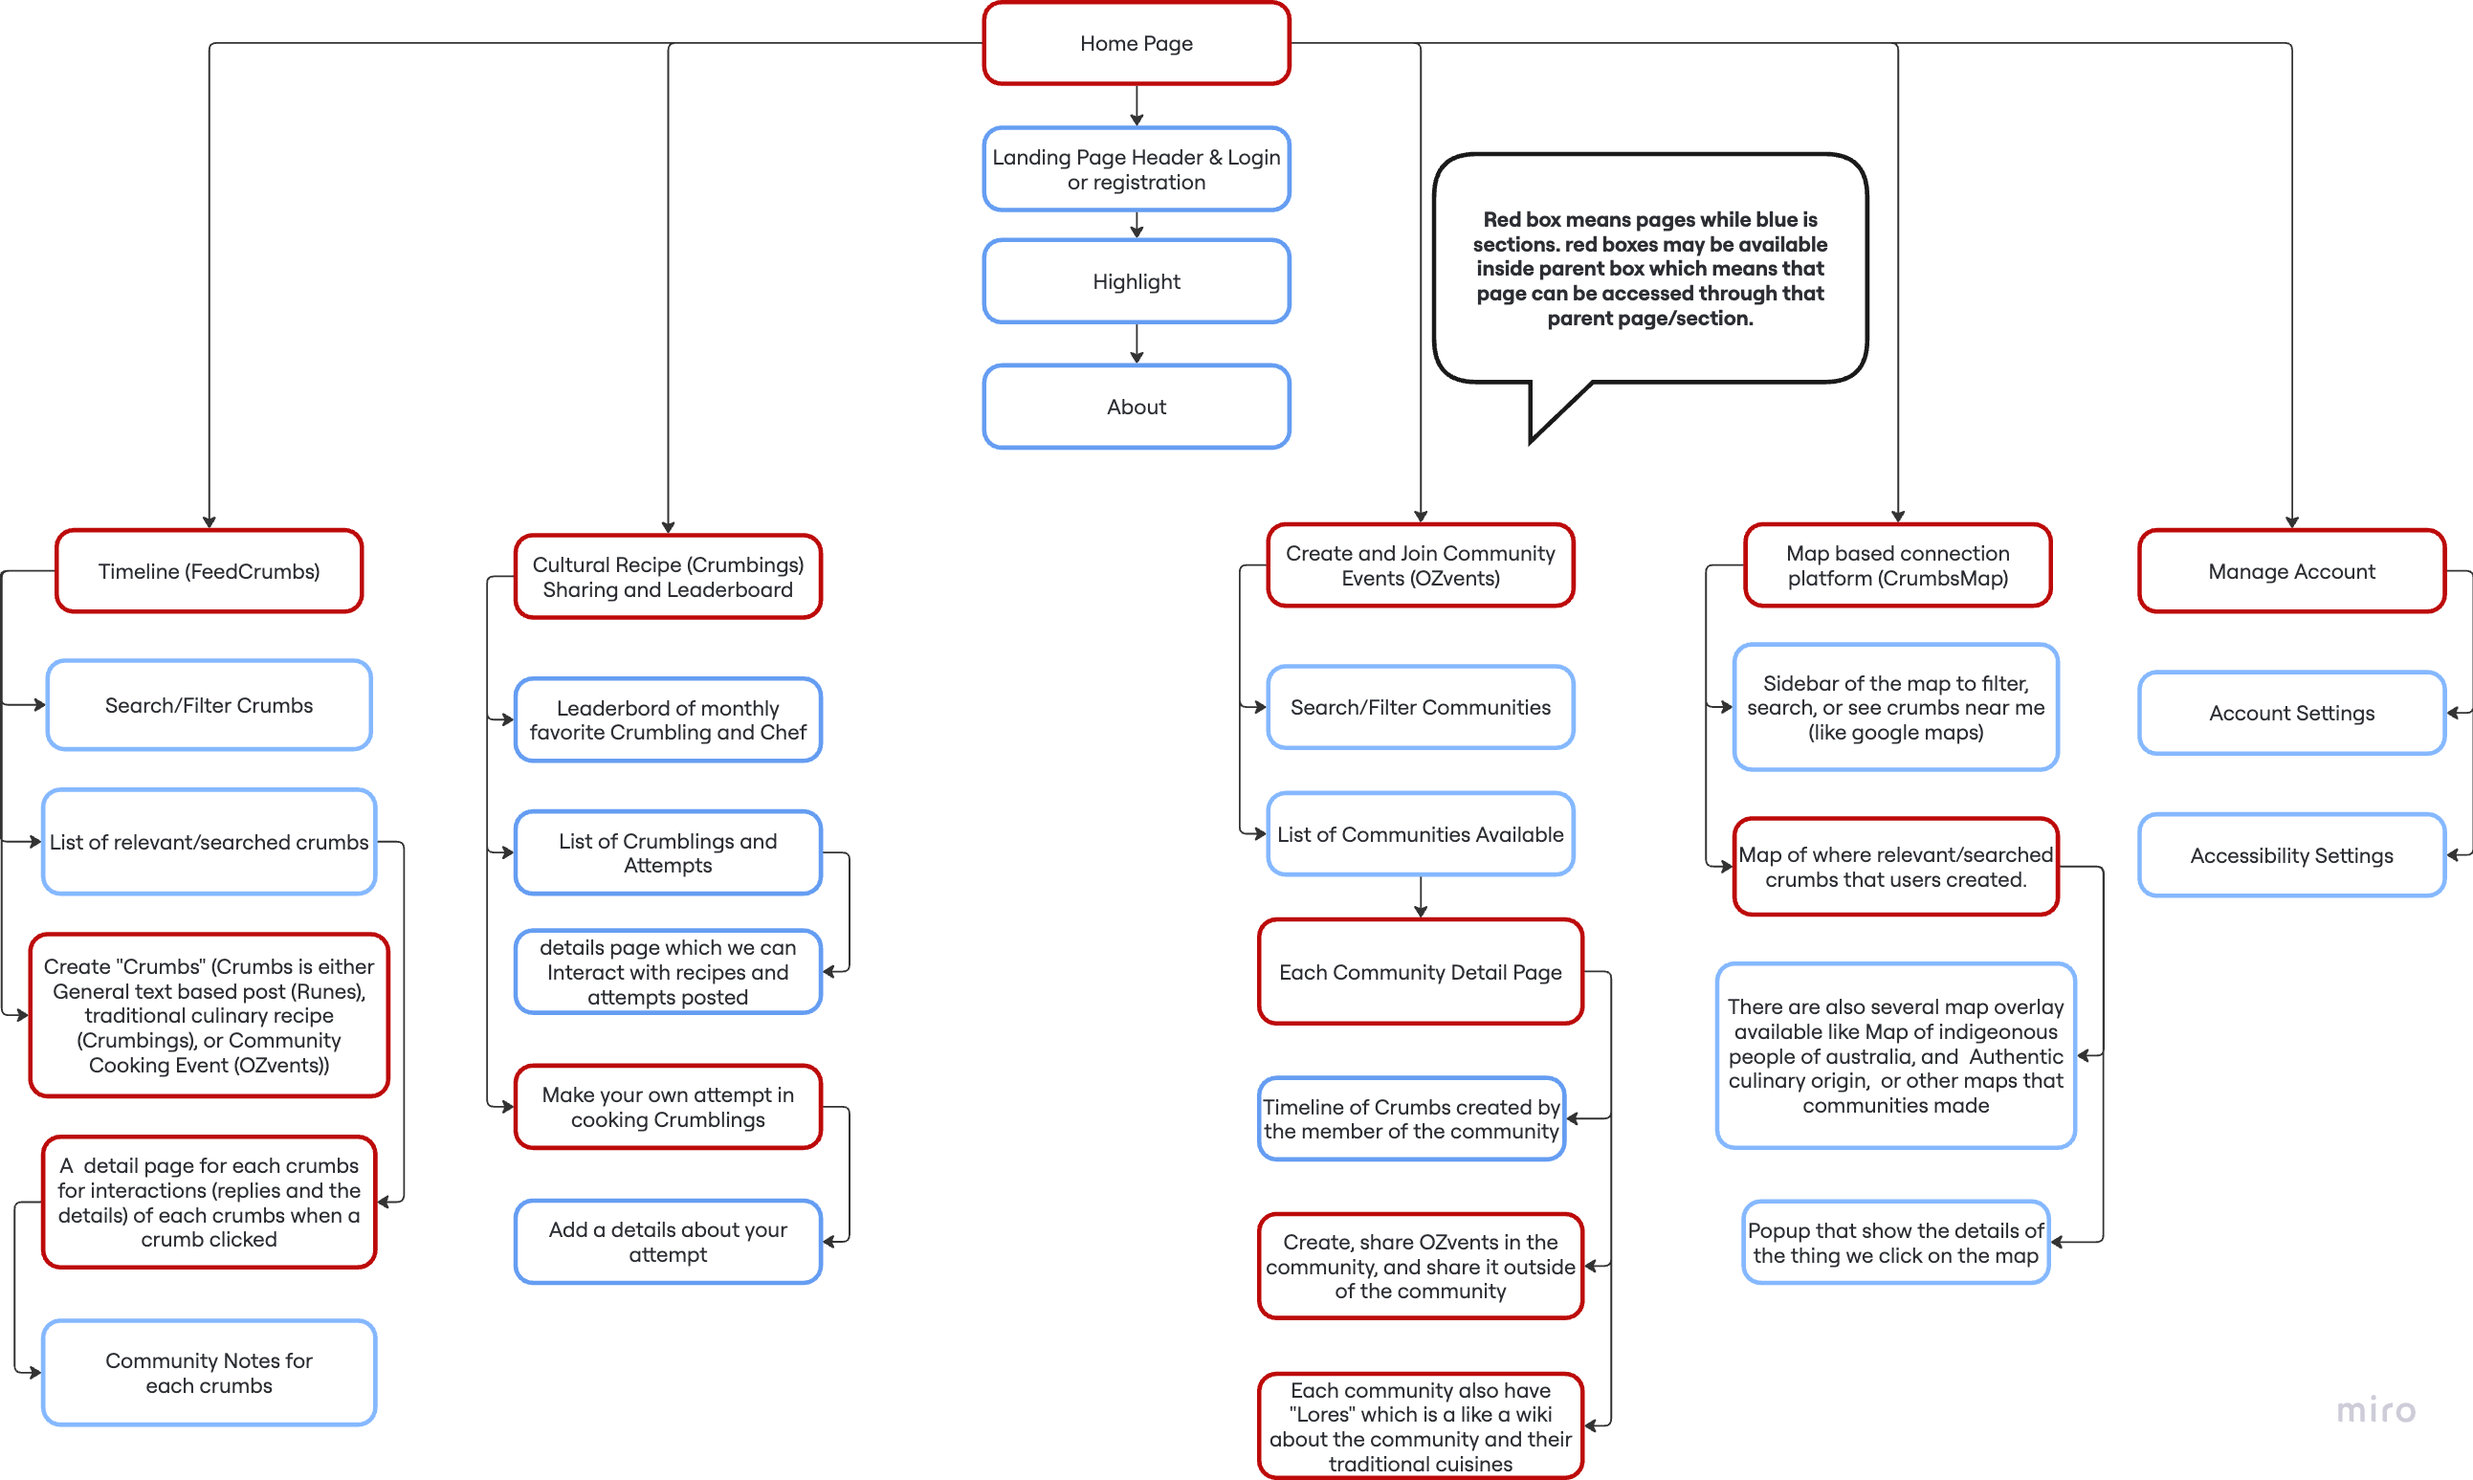
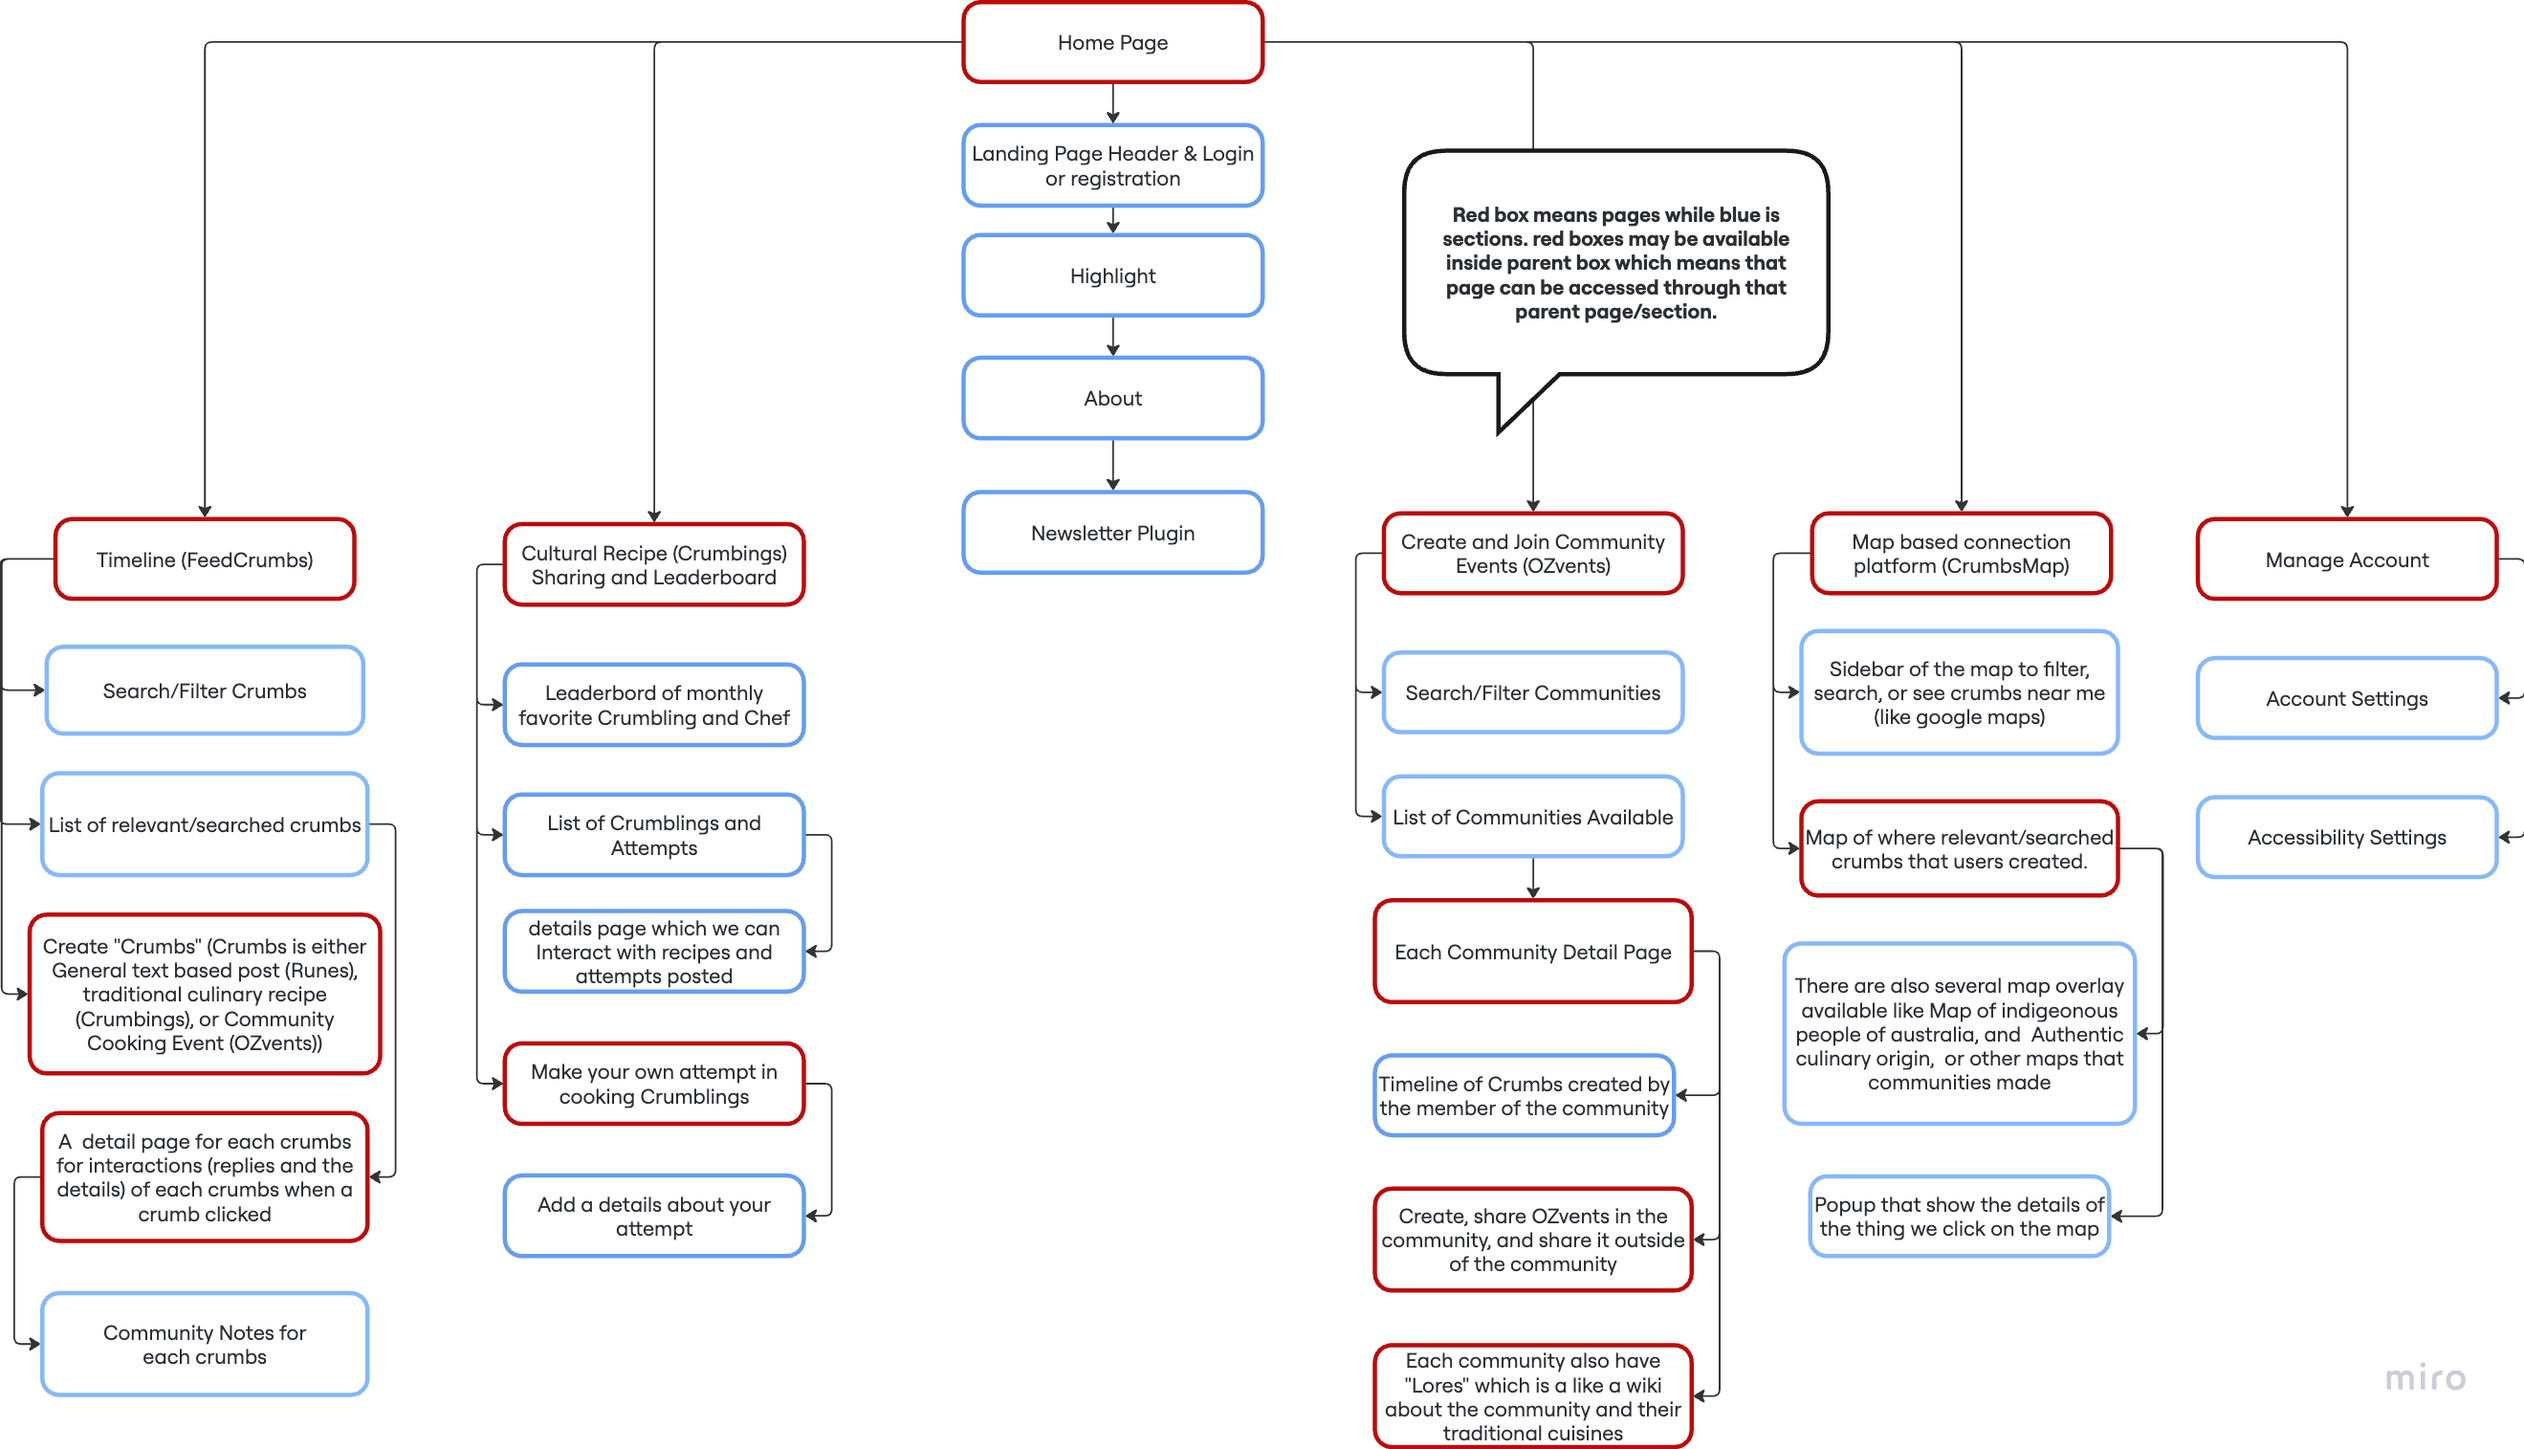
feat: add plugin to sitemap

diff --git a/work_phase_3/site_map.html b/work_phase_3/site_map.html
@@ -153,6 +153,25 @@
                                             about the platform, and what they can expect from it.
                                         </div>
                                     </div>
+
+                                    <div class="accordion-item p-t-4">
+                                        <button class="accordion-header">▷ Newsletter Plugin</button>
+                                        <div class="accordion-content">
+                                            This section is to prompt users to subscribe to the newsletter plugin
+                                            requested by the client. For accessibility, this form input and to adhere to
+                                            WCAG 3.3.2 (Labels and Instructions), Labels and Instructions regarding what
+                                            is required to fill will be made visible to the users.
+                                            Also, error identification and suggestions will also be implemented when
+                                            filling the different form fields to adhere to WCAG 3.3.1 (Error
+                                            Identification).
+
+                                            <br>
+                                            <br>
+                                            To mitigate ethical risk, a dedicated page called "Ethical Response" is
+                                            available to explain how the newsletter plugin will be implemented in an
+                                            ethical way.
+                                        </div>
+                                    </div>
                                 </div>
                             </div>
                         </div>
